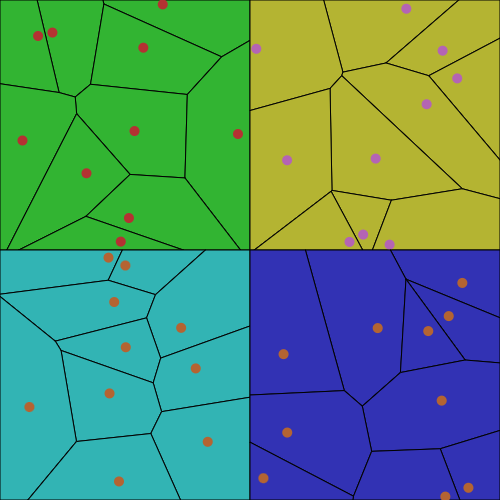
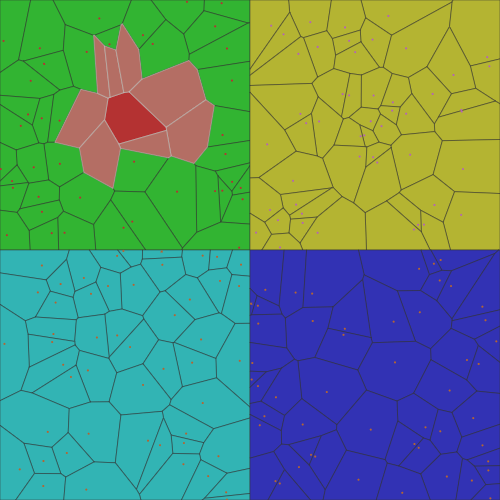
p5js/common/voronoi-2 - Update READMEs with screenshot

diff --git a/README.md b/README.md
@@ -7,7 +7,7 @@ Collection of personal coding projects. They may or may not grow into individual
 
 A p5.js sketch that uses some refactored version of p5.voronoi.js to draw multiple diagrams in one sketch.
 
-[<img src="./p5js/common/examples/voronoi/screenshot-01.png" alt="voronoi" width="150px" />][link-p5js-voronoi]
+[<img src="./p5js/common/examples/voronoi-2/screenshot-01.png" alt="voronoi" width="150px" />][link-p5js-voronoi-2]
 
 ## LÖVE
 Collection of sketches using the [LÖVE][love2d] environment.
@@ -31,6 +31,7 @@ Collection of sketches using the [p5.js][p5js] Javascript library.
 [<img src="./p5js/common/examples/quadtree-2/screenshot-01.png" alt="quadtree" width="150px" />][link-p5js-quadtree-2]
 [<img src="./p5js/common/examples/teardrops/screenshot-01.png" alt="teardrops" width="150px" />][link-p5js-teardrops]
 [<img src="./p5js/common/examples/voronoi/screenshot-01.png" alt="voronoi" width="150px" />][link-p5js-voronoi]
+[<img src="./p5js/common/examples/voronoi-2/screenshot-01.png" alt="voronoi second sketch" width="150px" />][link-p5js-voronoi-2]
 [<img src="./p5js/ecosystem/screenshot-01.png" alt="ecosystem" width="150px" />][link-p5js-ecosystem]
 [<img src="./p5js/forest-01/screenshot-01.png" alt="forest-01" width="150px" />][link-p5js-forest-01]
 [<img src="./p5js/forest-fires-02/screenshot-01.png" alt="forest-fires-02" width="150px" />][link-p5js-forest-fires-02]
@@ -124,6 +125,7 @@ Collection of sketches using the [Processing (P3)][processing] environment.
 [link-p5js-quadtree]: https://github.com/brianhonohan/sketchbook/tree/master/p5js/common/examples/quadtree/
 [link-p5js-quadtree-2]: https://github.com/brianhonohan/sketchbook/tree/master/p5js/common/examples/quadtree-2/
 [link-p5js-voronoi]: https://github.com/brianhonohan/sketchbook/tree/master/p5js/common/examples/voronoi/
+[link-p5js-voronoi-2]: https://github.com/brianhonohan/sketchbook/tree/master/p5js/common/examples/voronoi-2/
 [link-p5js-random-1]: https://github.com/brianhonohan/sketchbook/tree/master/p5js/random/1/
 [link-p5js-random-2]: https://github.com/brianhonohan/sketchbook/tree/master/p5js/random/2/
 [link-p5js-random-3]: https://github.com/brianhonohan/sketchbook/tree/master/p5js/random/3/

diff --git a/p5js/common/examples/voronoi-2/README.md b/p5js/common/examples/voronoi-2/README.md
@@ -3,14 +3,20 @@
 
 This is a [p5.js][p5js-home] sketch to demonstrate the a revised version of `p5.voronoi` library which enables having multiple diagrams in parallel with each other; and allows for the reliance / utilization of p5.js styling control for all but the sites.
 
+Of note, used [Chrome Performance Tools][chrome-perf-tools] to do some perfromance profiling and fine tuning, but will leave some of those optimizations to the next iteration of this sketch.
+
 ## Controls
 
 Mouse
-* Clicking (or pressing on mobile) will regenerate and redraw the diagram in that quadrant.
+* `hover` Moving the mouse around will highlight the cell under the mouse cursor;
+
+Touch
+* `press` Touching anywhere (and pressing and moving around) will highlight the cell under touch point.
 
 # References:
 * [p5.voronoi.js][p5_voronoi] - The main p5.js extension that enables drawing of of a Voronoi diagram.
 * [gorhill-voronoi][gorhill-voronoi] - The primary underlying implementation of the Voronoi algorithm in Javascript.
+* [Chrome Performance Tools][chrome-perf-tools]
 
 
 # Links: 
@@ -28,3 +34,4 @@ Mouse
 [screenshot-01]: ./screenshot-01.png
 [p5.voronoi.js]: https://github.com/Dozed12/p5.voronoi
 [gorhill-voronoi]: https://github.com/gorhill/Javascript-Voronoi
+[chrome-perf-tools]: https://developer.chrome.com/docs/devtools/performance
